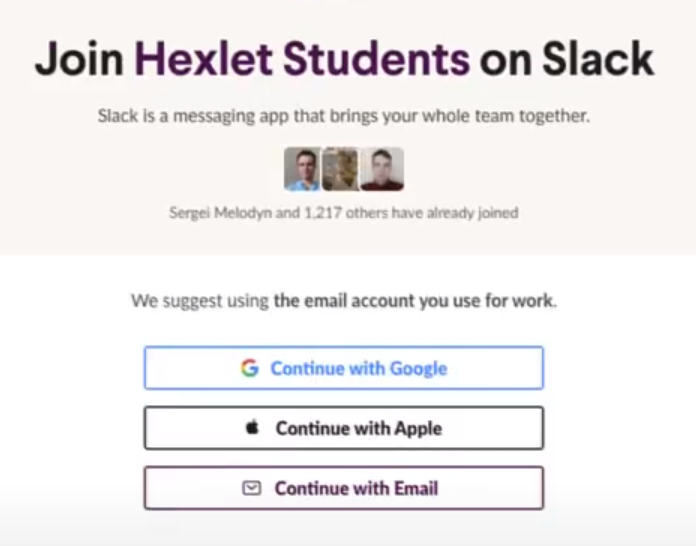
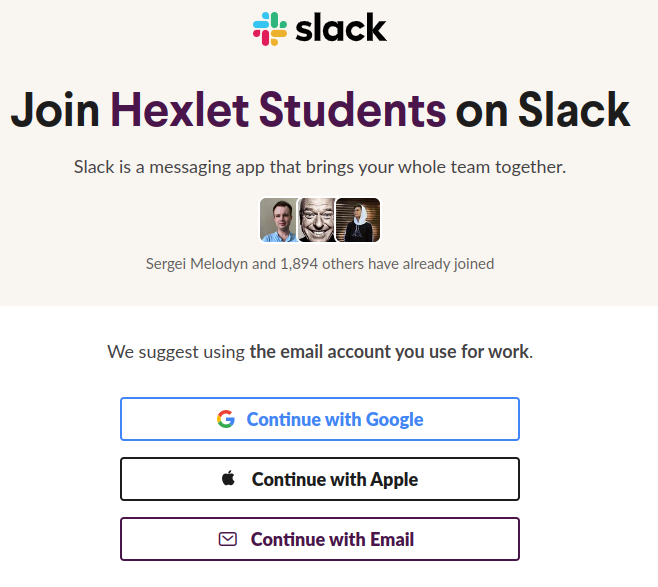
update screenshots, improve texts
--deploy

Changed region(s): [[0.152, 0.5293, 0.8207, 0.9652], [0.0, 0.0, 0.9726, 0.467]]

diff --git a/src/instruction.html b/src/instruction.html
@@ -55,7 +55,10 @@
     </div>
   </div>
   <div class="container-fluid mt-5">
-    <h2>Пошаговая регистрация</h2>
+    <h2 id="by-step"><a class="link-dark" href="#by-step">Пошаговая регистрация</a></h2>
+    <p class="border-start border-3 border-warning ps-2">
+      Используйте актуальную версию браузера Google Chrome, особенно, если получаете непонятные ошибки. Зачастую старенький Safari или даже свежий Яндекс.Браузер ломаются в самых неожиданных местах, самым неожиданным образом.
+    </p>
     <div class="row">
       <div class="col-4">
         <p class="h5">Видео-инструкция</p>
@@ -132,6 +135,7 @@
             </div>
           </li>
           <li class="list-group-item">
+            <span class="font-monospace">[необязательно]</span>
             Использование прокси для подтверждения аккаунта
             <p class="d-flex text-muted">
               Этот шаг надо выполнять только при отсутствии VPN и наличии ошибки при регистрации в Slack
@@ -199,7 +203,9 @@
             </a>
           </li>
           <li class="list-group-item border-bottom">
-            Слак будет настойчиво предлагать пройти знакомство с интерфейсом, нажать какие-то кнопки и прочитать всякую информацию. Настойчиво отказывайтесь, ищите кнопки "Закрыть" или "Пропустить". Доберитесь до чата и найдите в левом меню личные сообщения, там вас ждёт сообщение от куратора:
+            Слак будет настойчиво предлагать пройти знакомство с интерфейсом, нажать какие-то кнопки и прочитать всякую информацию. Настойчиво отказывайтесь, ищите кнопки
+            <span class="fst-italic">"Закрыть"</span>, <span class="fst-italic">"Пропустить"</span>, <span
+            class="fst-italic">"I’ll do this later"</span> и всё подобное. Доберитесь до чата и найдите в левом меню личные сообщения, там вас ждёт сообщение от куратора:
             <a
               href="<%=require('./slack.png')%>"
               target="_blank">
@@ -215,7 +221,7 @@
       </div>
     </div>
     <p class="border-start border-3 border-success ps-3 my-4 fs-5">
-      После подключения к Slack и группе, ознакомьтесь с информацией от куратора, она поможет понять что и как устроено, где смотреть расписание и что делать дальше.
+      Ознакомьтесь с информацией от куратора в Slack, она поможет понять что и как устроено, где смотреть расписание и что делать дальше.
     </p>
   </div>
   <hr>

diff --git a/src/index.html b/src/index.html
@@ -13,12 +13,36 @@
   <form action="#" name="email" class="container mb-5 w-75">
     <fieldset>
       <div class="mb-3">
-        <label for="hexlet">Почта, которую зарегистрировали на Хекслете</label>
-        <input id="hexlet" type="email" name="hexlet" class="form-control" required>
+        <label for="hexlet">Почта, которую зарегистрировали на
+          <a
+            href="https://ru.hexlet.io/account/settings/edit#:~:text=%D0%A2%D0%B5%D0%BA%D1%83%D1%89%D0%B8%D0%B9%20email"
+            target="_blank">
+            Хекслете
+          </a>
+        </label>
+        <input
+          id="hexlet"
+          type="email"
+          name="hexlet"
+          pattern="^.+@.+\..+$"
+          class="form-control"
+          placeholder="email на Хекслете"
+          autofocus
+          required>
+        <p>не продакшен, можно указать любую почту, особенно с <code>@rambler.ru</code></p>
       </div>
       <div class="slackEmail mb-3 d-none">
+        <p
+          class="m-0 border-start border-3 border-warning ps-2 text-muted">К сожалению, регистрация на почту российского сервиса ограничена со стороны Slack</p>
         <label for="slack">Почта на нероссийском сервисе для Slack</label>
-        <input id="slack" type="email" name="slack" class="form-control" aria-describedby="slackHelp" required>
+        <input
+          id="slack"
+          type="email" name="slack"
+          pattern="^.+@.+\..+$"
+          class="form-control"
+          placeholder="email для входа в Slack"
+          aria-describedby="slackHelp"
+          required>
         <div id="slackHelp" class="form-text">
           Подходят почты <code>@gmail.com</code>, <code>@icloud.com</code>, <code>@yahoo.com</code> и другие
           "зарубежные" сервисы

diff --git a/src/index.js b/src/index.js
@@ -62,6 +62,8 @@ const rusEmailBlockList = [
 const classNameHiddenElement = 'd-none';
 const checkRusEmail = (email) => rusEmailBlockList
   .some((domain) => email.endsWith(`@${domain}`));
+const emailRegex = /^.+@.+\..+$/i;
+const checkEmail = (email) => emailRegex.test(email);
 
 const state = {
   formState: 'filling',
@@ -94,9 +96,19 @@ const render = (el) => {
   }
 
   switch (state.formState) {
-    case 'sending':
+    case 'sending': {
       Array.from(el.form.elements)
         .forEach((element) => element.setAttribute('disabled', 'disabled'));
+
+      if (!(checkEmail(state.hexlet) && checkEmail(state.slack))) {
+        // eslint-disable-next-line
+        alert('Почта не прошла проверку на корректность. Она должна быть вида: name@domain.com');
+        state.formState = 'failed';
+        render(el);
+
+        break;
+      }
+
       sendRequest(state)
         .then((res) => {
           state.formState = 'sent';
@@ -114,6 +126,7 @@ const render = (el) => {
         });
 
       break;
+    }
     case 'failed':
       Array.from(el.form.elements)
         .forEach((element) => element.removeAttribute('disabled'));
